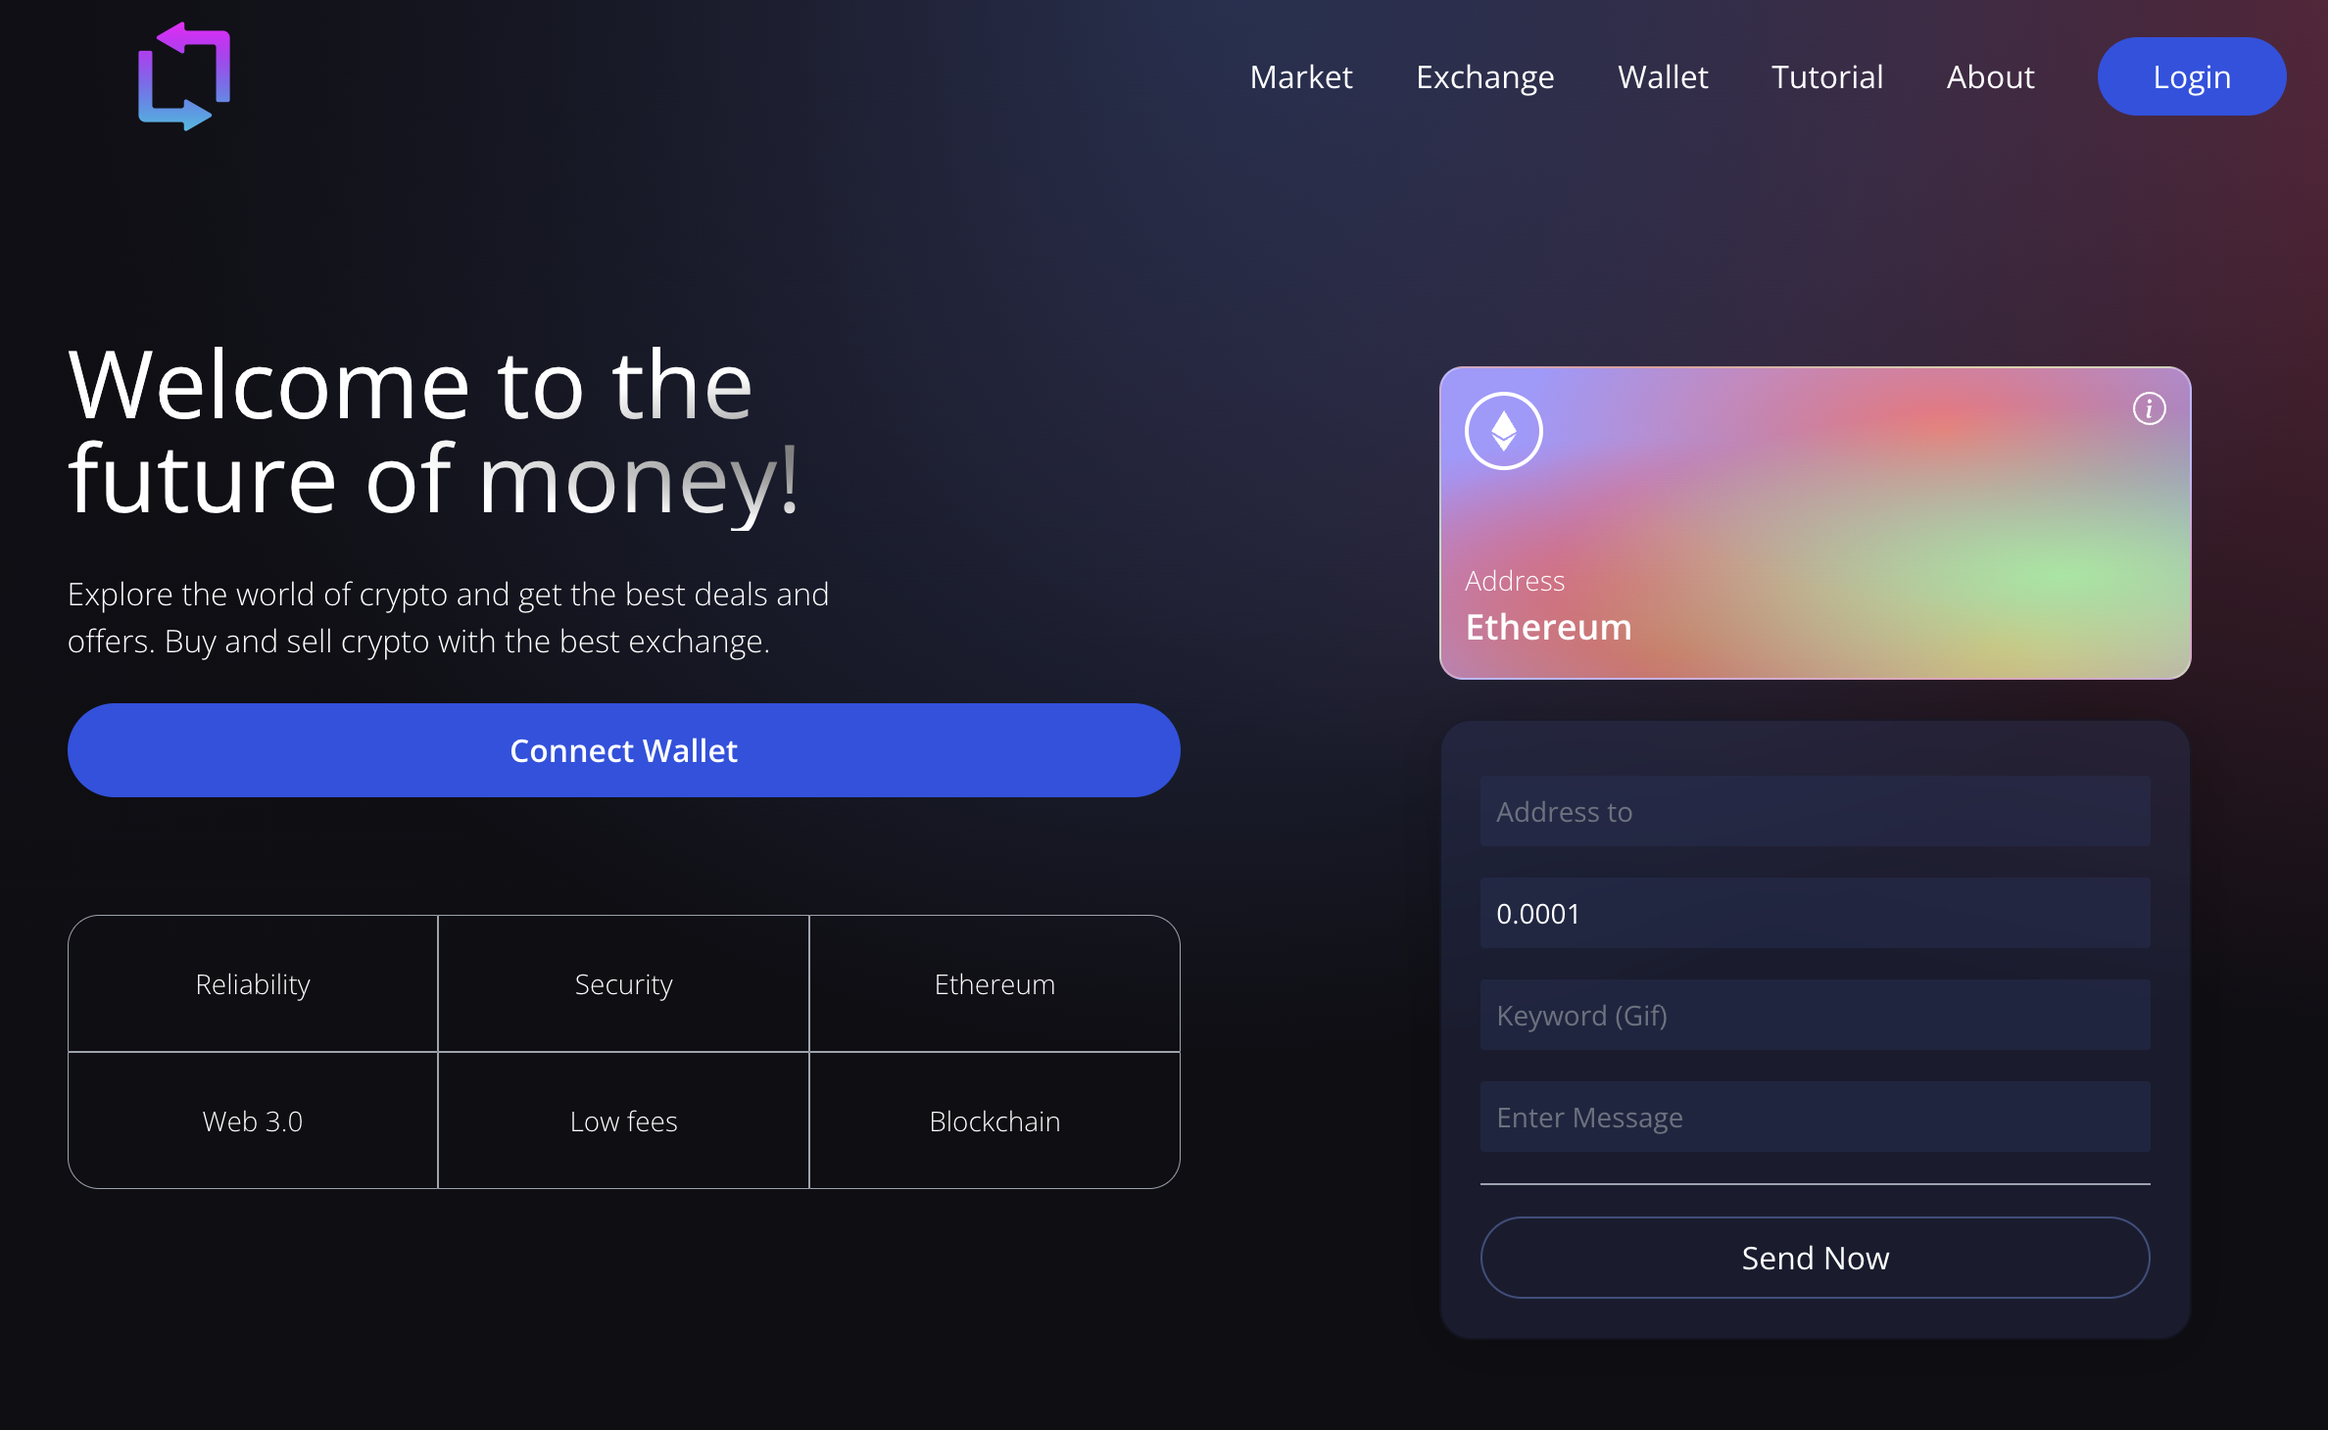
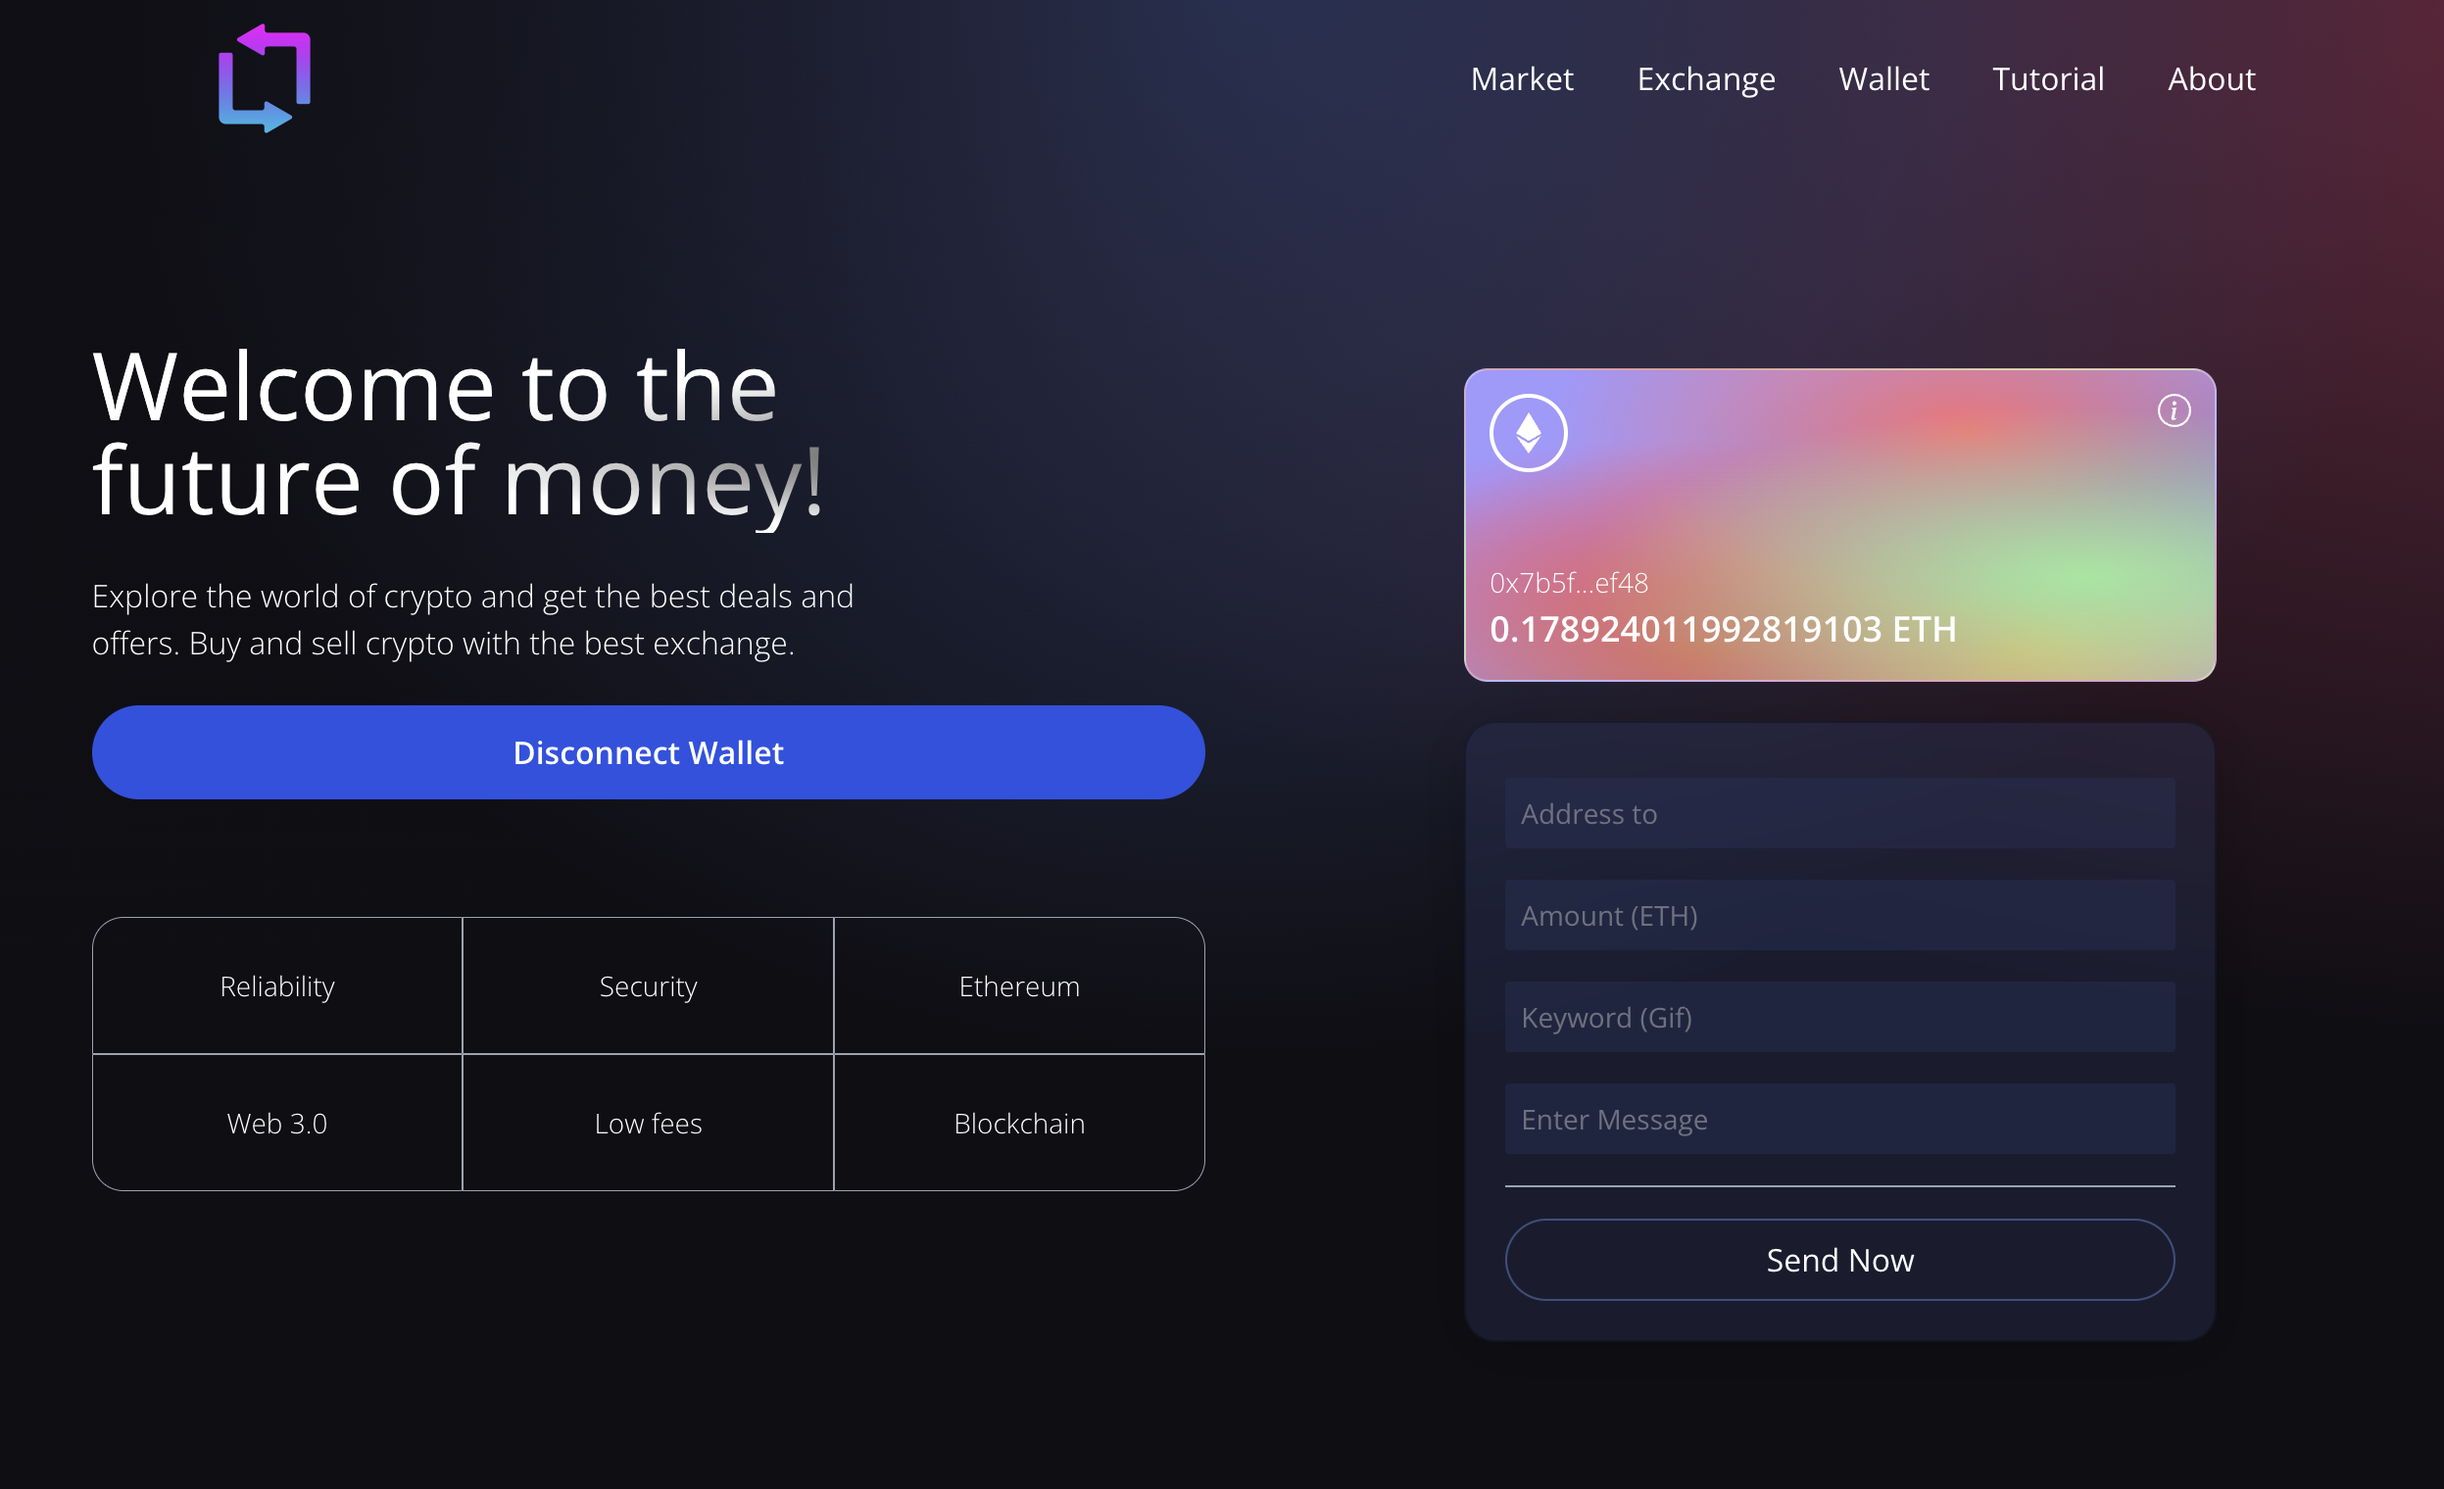
Show ETH Balance
Add app version
Update preview images

diff --git a/client/src/context/TransactionContext.jsx b/client/src/context/TransactionContext.jsx
@@ -12,6 +12,7 @@ export const TransactionContext = React.createContext({
     connectWallet: () => { },
     disconectWallet: () => { },
     sendTransaction: ({ addressTo, amount, keyword, message }) => { },
+    balance: { eth: 0, usd: 0 }
 });
 
 const { ethereum } = window;
@@ -32,6 +33,7 @@ export const TransactionProvider = ({ children }) => {
     const [ currentAccount, setConnectedAccount ] = useState('');
     const [ processing, setProcessing ] = useState({ status: false, breakpoint: '' });
     const [ transactions, setTransactions ] = useState([]);
+    const [ balance, setBalance ] = useState({ eth: 0, usd: 0 });
 
     useLayoutEffect(() => {
 
@@ -46,6 +48,7 @@ export const TransactionProvider = ({ children }) => {
             });
         }
     }, []);
+
 
     const checkIfWalletIsConnected = async () => {
 
@@ -76,7 +79,7 @@ export const TransactionProvider = ({ children }) => {
     const disconectWallet = async () => {
         try {
 
-            setConnectedAccount('');
+            setConnectedAccount('');            
             await ethereum.request({ method: 'eth_disconnect' });
         }
         catch (error) {
@@ -98,7 +101,7 @@ export const TransactionProvider = ({ children }) => {
                 return;
             }
 
-            setConnectedAccount(accounts[ 0 ]);
+            setConnectedAccount(accounts[ 0 ]);            
         }
         catch (error) {
             console.log(error);
@@ -182,6 +185,35 @@ export const TransactionProvider = ({ children }) => {
         }
     }
 
+    const getBalance = async () => {
+
+        try {
+
+            if (!ethereum) {
+                return;
+            }
+
+            if (!ethereum.isConnected()) {
+                return;
+            }
+
+            if (!currentAccount) {
+                setBalance({ eth: 0, usd: 0 });
+                return;
+            }
+
+            const network = 'rinkeby';
+            const provider = ethers.getDefaultProvider(network)
+            const balance = await provider.getBalance(currentAccount);
+            const formatBalance = ethers.utils.formatEther(balance);
+
+            setBalance({ eth: formatBalance, usd: 0 });
+        } catch (error) {
+            console.log(error);
+            setBalance({ eth: 0, usd: 0 });
+        }
+    }
+
     const sendTransaction = async ({ addressTo, amount, keyword, message }) => {
         try {
 
@@ -244,6 +276,7 @@ export const TransactionProvider = ({ children }) => {
             setProcessing({ status: true, breakpoint: 'Transaction counter' });
             checkIfTransactionExists();
             await getAllTransactions();
+            await getBalance();
             setProcessing({ status: false, breakpoint: 'Finished' });
         }
         catch (error) {
@@ -266,11 +299,15 @@ export const TransactionProvider = ({ children }) => {
         }
     }
 
+
+    useEffect(() => {
+        getBalance();
+    }, [ currentAccount ]);
+
     useEffect(() => {
         checkIfWalletIsConnected();
-        checkIfTransactionExists();
+        checkIfTransactionExists();        
     }, [])
-
 
     return (
         <TransactionContext.Provider value={{
@@ -280,7 +317,8 @@ export const TransactionProvider = ({ children }) => {
             transactions,
             connectWallet,
             disconectWallet,
-            sendTransaction
+            sendTransaction,
+            balance
         }}>
             {children}
         </TransactionContext.Provider>

diff --git a/client/src/components/CryptoCardForm.jsx b/client/src/components/CryptoCardForm.jsx
@@ -25,7 +25,7 @@ const Input = ({ placeholder, onChange, name, type, value, inputRef }) => {
 
 export const CryptoCardForm = () => {
 
-    const { account, isConnected, processing, sendTransaction } = useTransactionContext();
+    const { account, isConnected, processing, sendTransaction, balance } = useTransactionContext();
     const refAmount = useRef(null);
     const refAddressTo = useRef(null);
     const refkeyword = useRef(null);
@@ -57,7 +57,7 @@ export const CryptoCardForm = () => {
             return;
 
         if (refAddressTo?.current)
-            refAddressTo.current.value = '0x16aaE63E97922d139A963f6E3e4c4413284d9080';
+            refAddressTo.current.value = '';
 
         if (refAmount?.current)
             refAmount.current.value = '';
@@ -99,10 +99,10 @@ export const CryptoCardForm = () => {
                     </div>
                     <div>
                         <p className='text-white text-sm font-light'>
-                            {account ? shortenAddress(account) : `Address`}
+                            {account ? shortenAddress(account) : `...`}
                         </p>
                         <p className='text-white text-lg font-semibold'>
-                            Ethereum
+                            {balance?.eth ? `${balance.eth} ETH` : `...`}
                         </p>
                     </div>
                 </div>

diff --git a/client/src/hooks/useFetch.js b/client/src/hooks/useFetch.js
@@ -17,7 +17,6 @@ export default function useFetch({ keyword }) {
             const { data } = await response.json();
 
             if (Array.isArray(data) && data.length > 0) {
-                console.log(`🐛  -> 🔥 :  fetchData 🔥 :  data`, data);
                 setData(data[ 0 ]?.images?.downsized_medium?.url);
             } else {
                 setData(default_gif);

diff --git a/client/index.html b/client/index.html
@@ -5,7 +5,7 @@
   <meta charset="UTF-8" />
   <link rel="icon" type="image/svg+xml" href="/src/images/logo.png" />
   <meta name="viewport" content="width=device-width, initial-scale=1.0" />
-  <title>Milky Swap</title>
+  <title>Milky Swap v.0.22.09.07.1530</title>
 </head>
 
 <body>

diff --git a/client/vite.config.js b/client/vite.config.js
@@ -4,7 +4,7 @@ import react from '@vitejs/plugin-react'
 // https://vitejs.dev/config/
 export default defineConfig({
   plugins: [ react() ],
-  base: '/<REPO>/',
+  base: '/dapp-milky-swap/',
   build: {
     outDir: './build'
   }
